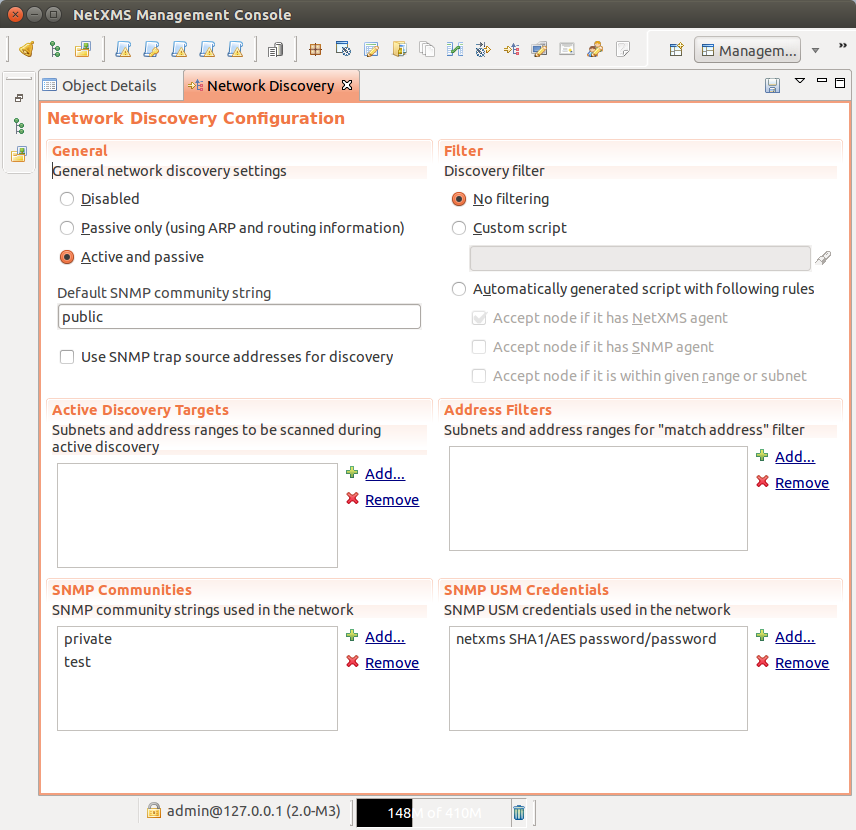
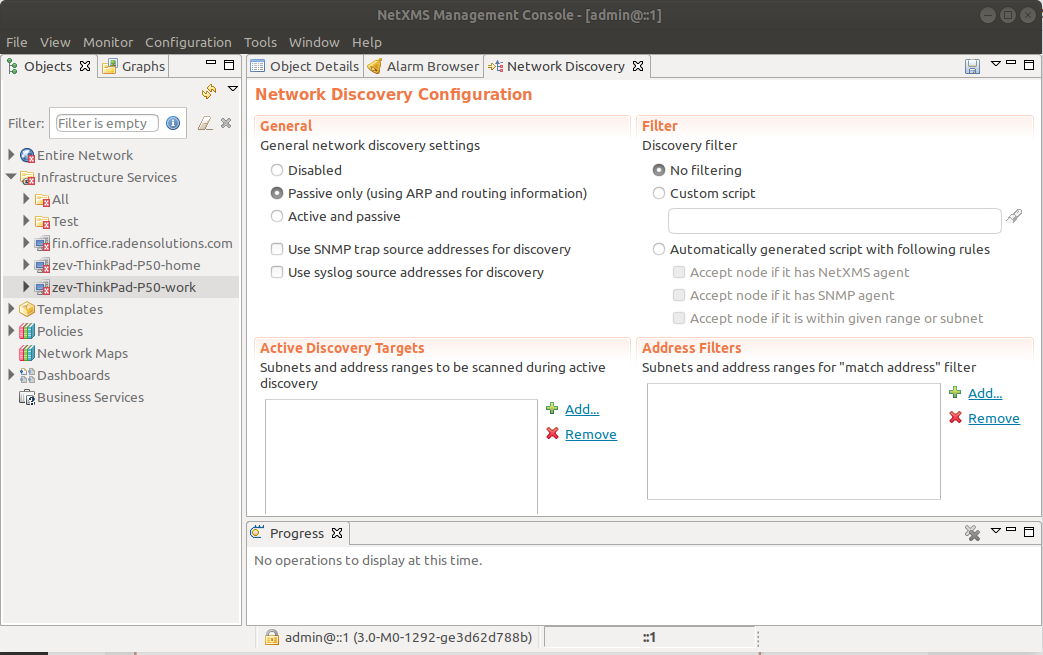
Updated information about default SNMP comunity string

diff --git a/admin/network-discovery.rst b/admin/network-discovery.rst
@@ -17,7 +17,7 @@ consider each responding address for adding to database. For each new device
 found NetXMS server tries to gather additional information using :term:`SNMP`
 and NetXMS agent, and then adds it to database. By default NetXMS server will
 add all discovered devices to database, but you can limit it by using discovery
-filters.
+filters. Default :term:`SNMP` credentials can be set in :ref:`dafault_snmp`.
 
 Active discovery runs every 2 hours and passive every 15 minutes. Thees values 
 can be change in ``ActiveDiscoveryInterval`` and ``DiscoveryPollingInterval`` 
@@ -38,9 +38,8 @@ will open:
 General
 -------
 
-In this section, you can choose network discovery mode, set default SNMP
-community string and chose if source node of :term:`SNMP Trap` should be 
-used for discovery. 
+In this section, you can choose network discovery mode, chose if source node of 
+:term:`SNMP Trap` or syslog source address should be used for discovery. 
 
 Filter
 ------
@@ -101,19 +100,3 @@ Address Filters
 In this section you can define address ranges for automatically generated
 discovery filter. This list has no effect if discovery is off or filter is not
 set to :guilabel:`Automatically generated script`.
-
-
-SNMP Communities
-----------------
-
-In this section you can add SNMP community strings to be tested during
-configuration polls. NetXMS server first will try default community string
-defined in :guilabel:`General` section, and then all community strings from
-this list.
-
-
-SNMP USM Credentials
---------------------
-
-In this section you can add SNMP version 3 credentials to be tested during
-configuration polls.

diff --git a/admin/snmp.rst b/admin/snmp.rst
@@ -63,14 +63,17 @@ configured next things:
 
 .. figure:: _images/snmp_trap_mapping_configuration.png
 
-Setting default SNMP credentials
-================================
+.. _dafault_snmp:
 
-Default SNMP credentials can be set in :guilabel:`Network Discovery` section. It does not 
-matter if credentials are used for adding nodes manually, through network 
-discovery or with help of agent registration - in each case :guilabel:`Network Discovery` 
-configuration value will be checked. More about :guilabel:`Network Discovery` view 
-can be found :ref:`there<network-discovery>`.
+Default SNMP credentials
+========================
+
+Default SNMP credentials can be set in :menuselection:`Configuration --> SNMP Credentials`. 
+It does not matter if credentials are used for adding nodes manually, through network 
+discovery or with the help of agent registration - in each case :guilabel:`SNMP Credentials` 
+configuration value will be checked.
+
+.. figure:: _images/snmp_credentials.png
 
 
 Using ifTable and ifXTable
